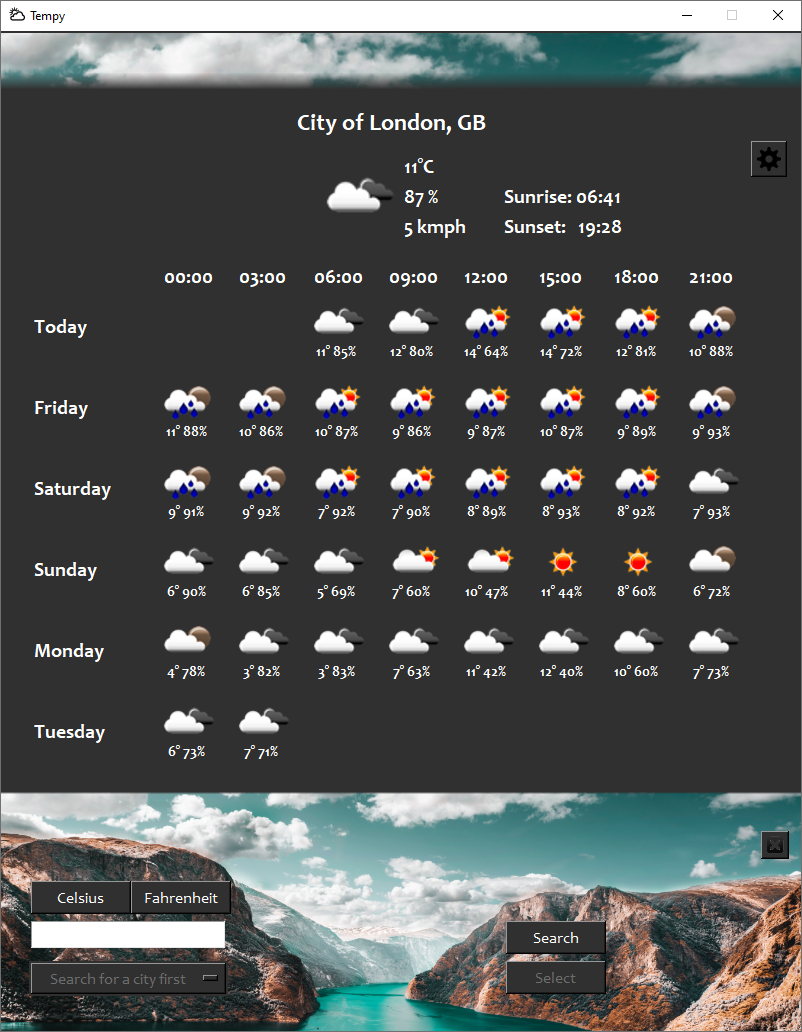
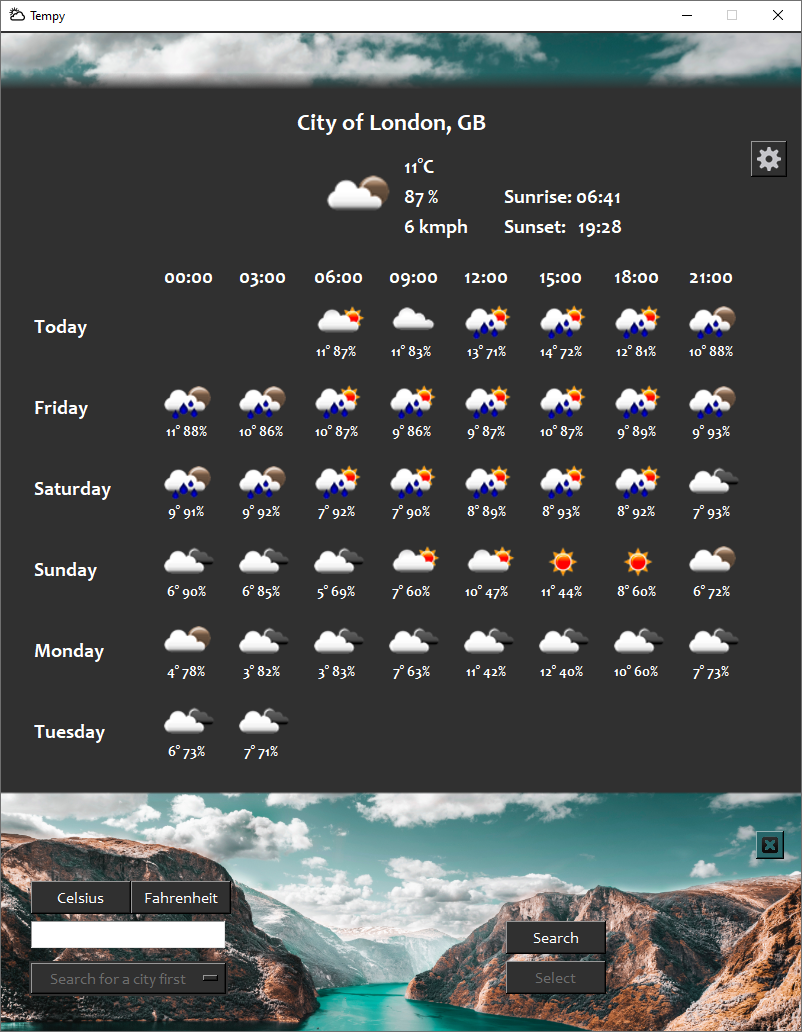
settings, close buttons fix

diff --git a/functions/settings_window.py b/functions/settings_window.py
@@ -187,7 +187,7 @@ def launch(launched, window):
         close_button = close_button_instance.create()
         photo_size = 20
         photo_close = image_display.button(photo_size,"icon_close.png")
-        close_button.configure(height=photo_size+2, width=photo_size+2, image=photo_close, activebackground='#505050')
+        close_button.configure(height=photo_size+2, width=photo_size+2, image=photo_close, background="#266569" ,activebackground='#505050')
 
 
         ## DISPLAY WIDGETS
@@ -215,7 +215,7 @@ def launch(launched, window):
         city_select_button.place(x=x_button+x_adjust, y=y_location(4))
 
         # CLOSE BUTTON
-        close_button.place(x=window_width-45+x_adjust, y=y_location(-2)-10)
+        close_button.place(x=window_width-45, y=y_location(-2)-10)
 
         window.mainloop()
 

diff --git a/main.py b/main.py
@@ -76,7 +76,7 @@ def window_launched_counter(): # CREATING THE SETTINGS WIDOW WIDGETS ONLY ONCE @
     global launched
     launched += 1
 
-photo_cog = image_display.button(24,"icon_cog_popup.ico")
+photo_cog = image_display.button(24,"icon_cog_popup.png")
 settings_button = Button(window,
                       command = lambda: [window_launched_counter(), settings_window.launch(launched, window)],
                       image = photo_cog, 
